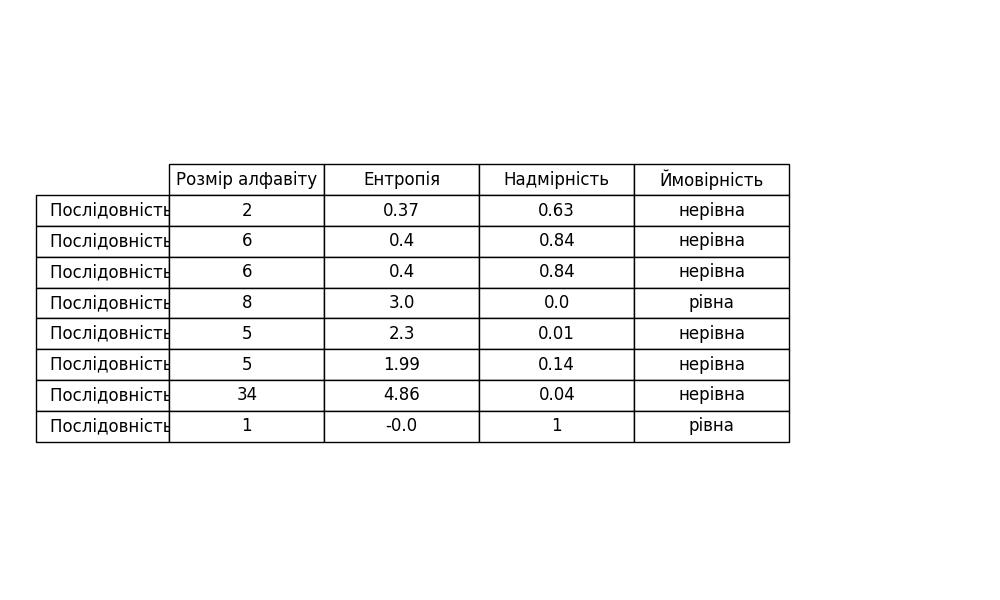
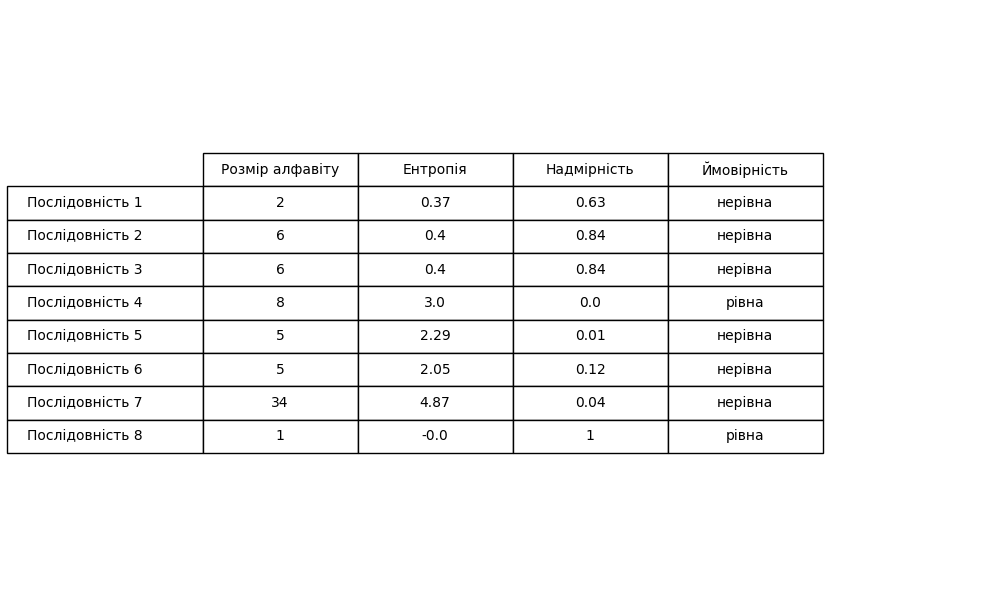
LosslessСompression, 1

Changed region(s): [[0.0, 0.24, 0.837, 0.78]]

diff --git a/LosslessСompression/sequence.py b/LosslessСompression/sequence.py
@@ -110,9 +110,9 @@ rows = [f'Послідовність {i}' for i in range(1, 9)]
 fig, ax = plt.subplots(figsize=(10, 6))
 ax.axis('off')
 
-table = ax.table(cellText=results, colLabels=headers, rowLabels=rows, loc='center', cellLoc='center', bbox=[0.1, 0.2, 0.8, 0.6])
-table.set_fontsize(12)
-table.scale(1, 2)
+table = ax.table(cellText=results, colLabels=headers, rowLabels=rows, loc='center' , cellLoc='center')
+table.set_fontsize(14)
+table.scale(0.8, 2)
 
 plt.savefig("характеристики.png")
 plt.show()
